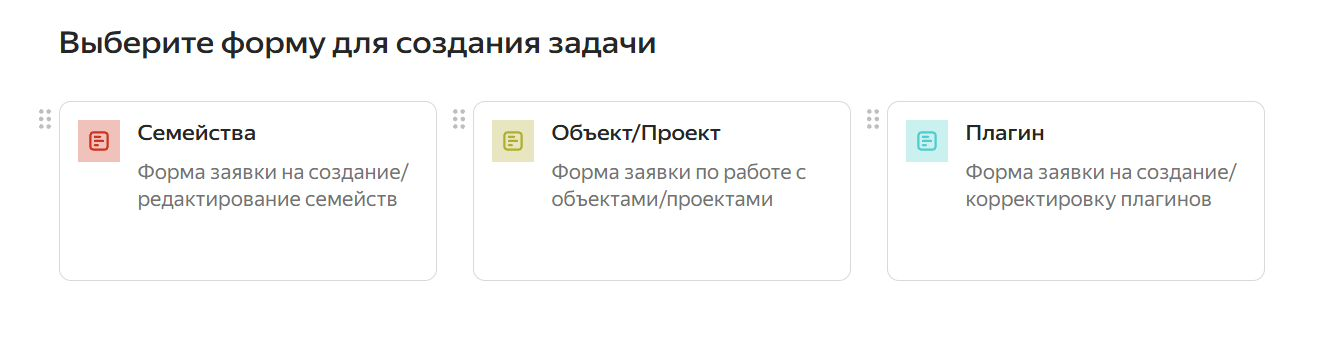
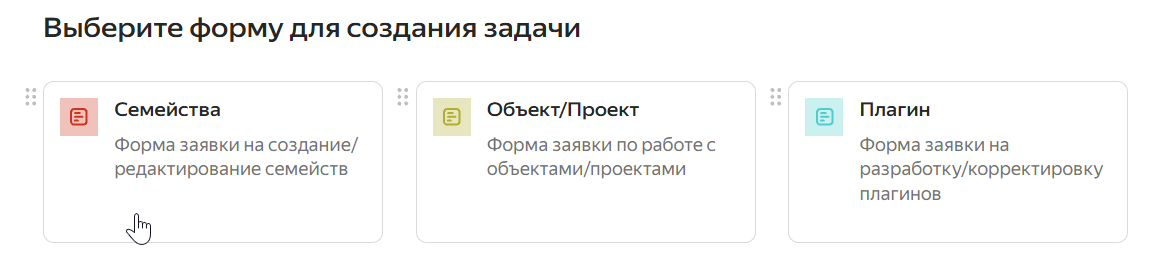
Update 2 files
- BIM-instrykcii/zadanie-na-semeystva.md
   - BIM-instrykcii/zadanie-na-semeystva.jpeg

diff --git a/BIM-instrykcii/zadanie-na-semeystva.md b/BIM-instrykcii/zadanie-na-semeystva.md
@@ -28,7 +28,7 @@ aliases:
 
 -  «Плагины» -- для разработки и корректировки плагинов.
 
-![](./zadanie-na-semeystva.jpeg){width=1334px height=337px}
+![](./zadanie-na-semeystva.jpeg){width=1159px height=272px}
 
 
 
